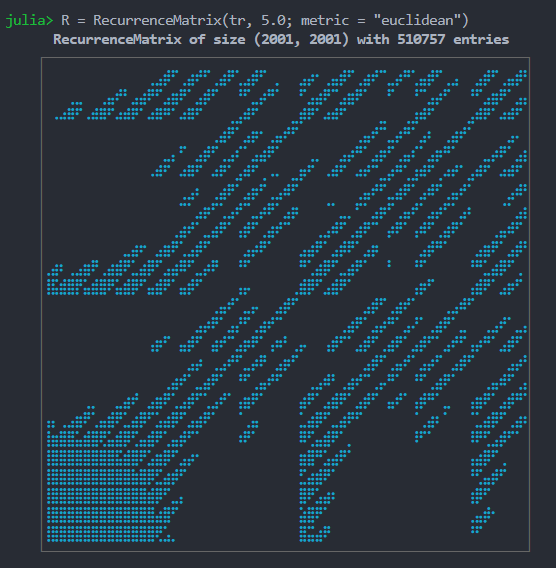
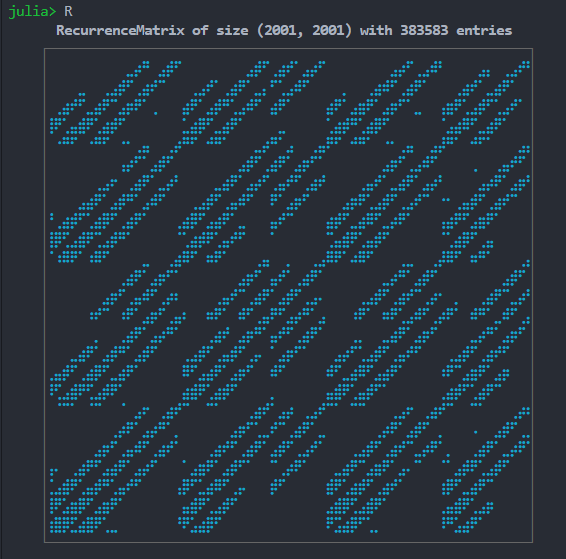
consistent orbit for roessler

Changed region(s): [[0.0, 0.0, 0.9478, 0.9732]]

diff --git a/docs/src/rqa/rplots.md b/docs/src/rqa/rplots.md
@@ -26,7 +26,7 @@ The recurrence matrices are internally stored as sparse matrices with boolean va
 Here is an example recurrence plot/matrix of a full trajectory of the Roessler system:
 ```@example recurrence
 using DynamicalSystems
-ro = Systems.roessler(a=0.15, b=0.20, c=10.0)
+ro = Systems.roessler(ones(3), a=0.15, b=0.20, c=10.0)
 N = 2000; dt = 0.05
 tr = trajectory(ro, N*dt; dt = dt, Ttr = 10.0)
 
